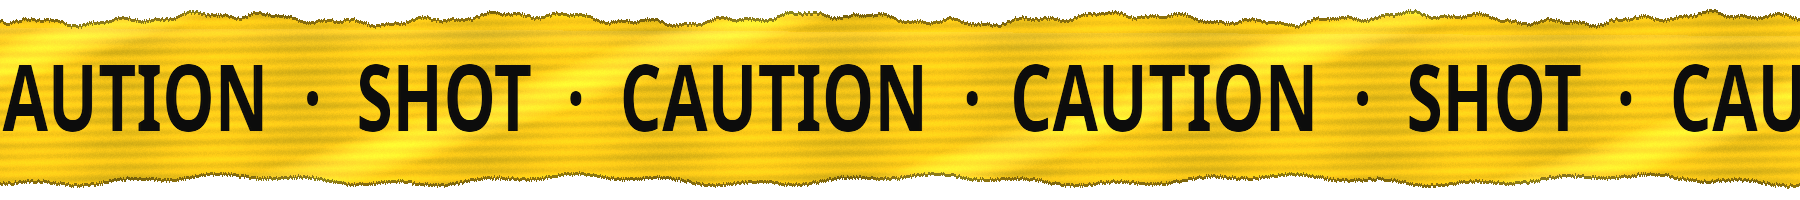
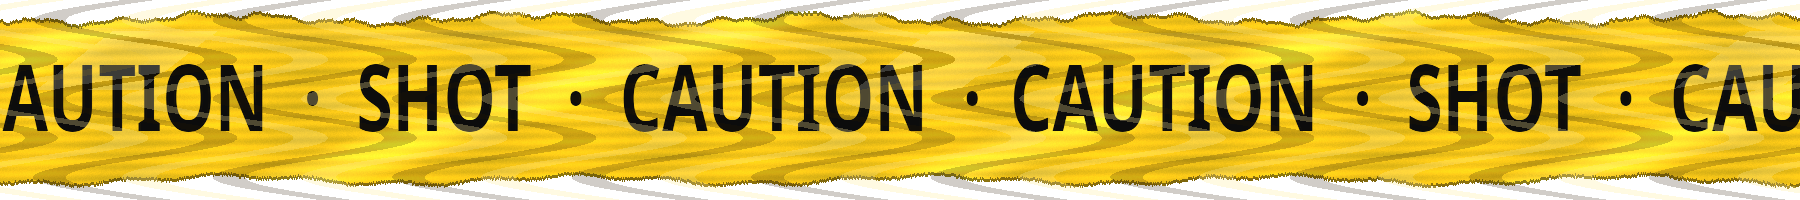
Cross the shot card with a tape X and knock it askew.
Two full-width caution strips hang off the card, the holes grow to a glass spiderweb, and the total turns #FF6B6B under a red vignette. The punch, the slap, and the haptics stay.

diff --git a/apps/web/src/styles.css b/apps/web/src/styles.css
@@ -706,22 +706,30 @@ select { background: #170d27; color: var(--ink); border: 1px solid rgba(185,128,
 .tt-recap { display: flex; flex-direction: column; justify-content: center; gap: 16px; width: min(520px, 100%); }
 .tt-team { position: relative; padding: 18px 16px 16px; background: rgba(255,255,255,.05); box-shadow: inset 0 0 0 1px rgba(185,128,255,.2); clip-path: polygon(10px 0, 100% 0, calc(100% - 10px) 100%, 0 100%); }
 .tt-face { display: grid; grid-template-columns: minmax(0, 1fr) auto; grid-template-areas: "name total" "line total" "players total" "bar bar"; align-items: center; gap: 8px 16px; position: relative; z-index: 5; }
-/* On-notice shot card: dim the face, red border, three raster holes, then the corner tape. Full fidelity at every width, including 360–390. */
+/* On-notice shot card: knocked 4px and -1.5deg, red vignette and glow, three raster holes, then a shallow tape X. Full fidelity at every width, including 360–390. */
 .tt-team > :not(.shot-holes):not(.caution-x):not(.shroud) { position: relative; z-index: 5; }
-.tt-team.taped { clip-path: none; overflow: hidden; }
-.tt-team.notice, .tt-team.mine.notice { clip-path: none; overflow: hidden; border: 1px solid #FF4D4D; box-shadow: none; }
-.tt-team.notice .tt-face { filter: brightness(.85); }
+.tt-team.taped { clip-path: none; overflow: visible; }
+.tt-team.notice, .tt-team.mine.notice {
+  clip-path: none; overflow: visible; border: 1px solid #FF4D4D; margin-right: 6px;
+  transform: translateX(4px) rotate(-1.5deg);
+  box-shadow: 0 0 24px rgba(255,60,60,.25), inset 0 0 48px rgba(255,60,60,.12);
+}
+.tt-team.notice .tt-team-name,
+.tt-team.notice .tt-line,
+.tt-team.notice .tt-players { filter: brightness(.85); text-shadow: 0 2px 0 #140810; }
 .tt-team.notice.tape-in { animation: hole-jolt 90ms linear 0ms, hole-jolt 90ms linear 90ms, hole-jolt 90ms linear 180ms; }
-@keyframes hole-jolt { 0%, 100% { transform: translate3d(0, 0, 0); } 45% { transform: translate3d(3px, 0, 0); } }
+@keyframes hole-jolt { 0%, 100% { transform: translateX(4px) rotate(-1.5deg); } 45% { transform: translateX(7px) rotate(-1.5deg); } }
 .shot-holes { position: absolute; inset: 0; z-index: 1; pointer-events: none; }
-.shot-holes img { position: absolute; width: 32px; height: 32px; transform: translate(-50%, -50%) rotate(var(--rot, 0deg)) scale(var(--s, 1)); pointer-events: none; }
+.shot-holes img { position: absolute; width: 46px; height: 46px; transform: translate(-50%, -50%) rotate(var(--rot, 0deg)) scale(var(--s, 1)); pointer-events: none; }
 .tt-team.notice.tape-in .shot-holes img { animation: hole-punch 120ms cubic-bezier(.2, .8, .2, 1) both; }
 @keyframes hole-punch { 0% { opacity: 0; transform: translate(-50%, -50%) rotate(var(--rot, 0deg)) scale(calc(var(--s, 1) * 1.4)); } 12% { opacity: 1; transform: translate(-50%, -50%) rotate(var(--rot, 0deg)) scale(calc(var(--s, 1) * 1.28)); } 100% { opacity: 1; transform: translate(-50%, -50%) rotate(var(--rot, 0deg)) scale(var(--s, 1)); } }
-/* One strip across the top-right corner, inside the card. The card clips it so a rotated end cannot paint outside. */
-.caution-x { position: absolute; z-index: 4; top: 0; right: 0; width: 30%; height: 14px; opacity: 0.95; overflow: hidden; pointer-events: none; transform: rotate(-6deg); transform-origin: 100% 0; filter: drop-shadow(0 2px 2px rgba(0,0,0,.4)); }
-.caution-x .tape { display: block; width: 100%; height: 100%; object-fit: cover; }
-.tt-team.tape-in .caution-x { animation: tape-slap 260ms cubic-bezier(.2, 1.3, .3, 1) 300ms both; }
-@keyframes tape-slap { from { opacity: 0; transform: rotate(8deg) scale(1.15); } to { opacity: 0.95; transform: rotate(-6deg) scale(1); } }
+/* Two full-width strips in a shallow X. They overhang the card by 10px and stay behind the type. The total paints above them. */
+.caution-x { position: absolute; z-index: 4; left: -14px; top: 44%; width: calc(100% + 28px); height: 28px; opacity: 0.95; overflow: visible; pointer-events: none; }
+.caution-x .tape { position: absolute; left: 0; top: 0; width: 100%; height: 28px; object-fit: cover; transform-origin: center; filter: drop-shadow(0 2px 1px rgba(0,0,0,.45)); }
+.caution-x .tape.a { --from: 20deg; --to: 8deg; transform: rotate(8deg); }
+.caution-x .tape.b { --from: -20deg; --to: -8deg; transform: rotate(-8deg); }
+.tt-team.tape-in .caution-x .tape { animation: tape-slap 260ms cubic-bezier(.2, 1.3, .3, 1) 300ms both; }
+@keyframes tape-slap { from { opacity: 0; transform: rotate(var(--from)) scale(1.15); } to { opacity: 0.95; transform: rotate(var(--to)) scale(1); } }
 /* Tape after a non-losing shot, off once they make their books. A hand-1 loss shows the tape and the sheet.
    Later eliminations are the sheet alone. RIP, the police lights, and the time-of-death caption stay at full fidelity at every width, including 360–390. */
 .shroud {
@@ -788,10 +796,8 @@ select { background: #170d27; color: var(--ink); border: 1px solid rgba(185,128,
 .tt-team.shrouded .tt-line b.neg { color: #8e2436; }
 .tt-team.shrouded .tt-line b.pos { color: #1c6a34; }
 .tt-team.shrouded .tt-players { color: #4a382c; }
-.tt-recap.crowded .caution-x { height: 16px; width: 42%; }
-.tt-recap.crowded .shot-holes img { width: 28px; height: 28px; }
 @keyframes sheet-drop { 0% { opacity: 0; transform: translate3d(0, -108%, 0); } 100% { opacity: 1; transform: none; } }
-@media (prefers-reduced-motion: reduce) { .tt-team.notice.tape-in, .tt-team.tape-in .caution-x, .tt-team.notice.tape-in .shot-holes img, .tt-team.sheet-in .shroud { animation: none; } }
+@media (prefers-reduced-motion: reduce) { .tt-team.notice.tape-in, .tt-team.tape-in .caution-x, .tt-team.tape-in .caution-x .tape, .tt-team.notice.tape-in .shot-holes img, .tt-team.sheet-in .shroud { animation: none; } }
 @media (prefers-reduced-motion: reduce) { .tod span { animation: none; opacity: 1; } }
 .tt-team.mine { background: rgba(245,197,66,.08); box-shadow: inset 3px 0 0 var(--gold), inset 0 0 0 1px rgba(245,197,66,.25); }
 .tt-team-name { grid-area: name; display: flex; flex-direction: column; gap: 4px; }
@@ -820,6 +826,10 @@ select { background: #170d27; color: var(--ink); border: 1px solid rgba(185,128,
 .tt-stat.total { grid-area: total; min-width: 64px; }
 .tt-stat.total b { font-size: 46px; color: #fff; text-shadow: 0 0 14px rgba(185,128,255,.8); }
 .tt-team.mine .tt-stat.total b { color: var(--gold); text-shadow: 0 0 14px rgba(245,197,66,.7); }
+.tt-team.notice .tt-stat.total,
+.tt-team.mine.notice .tt-stat.total { position: relative; z-index: 6; }
+.tt-team.notice .tt-stat.total b,
+.tt-team.mine.notice .tt-stat.total b { color: #FF6B6B; text-shadow: 0 2px 0 #140810; background: #2a1c28; border-radius: 6px; padding: 0 4px; }
 .tt-players { display: flex; flex-wrap: wrap; justify-content: center; gap: 0 6px; font-size: 11px; color: var(--muted); }
 .nil-tag { font-style: normal; font-weight: 800; font-size: 10px; padding: 0 3px; border-radius: 2px; background: var(--purple); color: #fff; }
 .tt-team .tt-bar { grid-area: bar; }

diff --git a/apps/web/test/scorecard-shroud.test.ts b/apps/web/test/scorecard-shroud.test.ts
@@ -70,9 +70,9 @@ describe('scorecard caution tape and shroud', () => {
     expect(html).toContain('class="tt-team blast taped tape-in notice"');
     expect(html).toContain('data-testid="recap-tape-1"');
     expect(html).toContain('src="/shot/tape.png"');
-    expect(html.match(/src="\/shot\/tape.png"/g)).toHaveLength(1);
-    expect(html).not.toContain('class="tape a"');
-    expect(html).not.toContain('class="tape b"');
+    expect(html.match(/src="\/shot\/tape.png"/g)).toHaveLength(2);
+    expect(html).toContain('class="tape a"');
+    expect(html).toContain('class="tape b"');
     expect(html).toContain('data-testid="recap-holes-1"');
     expect(html).toContain('src="/shot/hole.png"');
     expect(html.match(/src="\/shot\/hole.png"/g)).toHaveLength(3);
@@ -80,9 +80,9 @@ describe('scorecard caution tape and shroud', () => {
     expect(html).toContain('animation-delay:90ms');
     expect(html).toContain('animation-delay:180ms');
     expect(html).not.toContain('animation-delay:270ms');
-    expect(html).toContain('left:60%');
-    expect(html).toContain('left:11%');
-    expect(html).toContain('left:88%');
+    expect(html).toContain('left:40%');
+    expect(html).toContain('left:16%');
+    expect(html).toContain('left:55%');
     expect(html).toContain('data-testid="recap-shot-stamp-1"');
     expect(html).toContain('>SHOT<');
     expect(html).toContain('data-testid="recap-notice-1"');
@@ -190,9 +190,19 @@ describe('scorecard caution tape and shroud', () => {
     expect(css).toContain('opacity: 0.95');
     expect(css).toContain('brightness(.85)');
     expect(css).toContain('#FF4D4D');
-    expect(css).toContain('.tt-team.taped { clip-path: none; overflow: hidden; }');
-    expect(css).toContain('.tt-team.notice, .tt-team.mine.notice { clip-path: none; overflow: hidden;');
-    expect(css).toContain('.caution-x { position: absolute; z-index: 4; top: 0; right: 0;');
+    expect(css).toContain('.tt-team.taped { clip-path: none; overflow: visible; }');
+    expect(css).toContain('overflow: visible; border: 1px solid #FF4D4D');
+    expect(css).toContain('translateX(4px) rotate(-1.5deg)');
+    expect(css).toContain('0 0 24px rgba(255,60,60,.25)');
+    expect(css).toContain('inset 0 0 48px rgba(255,60,60,.12)');
+    expect(css).toContain('color: #FF6B6B');
+    expect(css).toContain('text-shadow: 0 2px 0 #140810');
+    expect(css).toContain('left: -14px');
+    expect(css).toContain('width: calc(100% + 28px)');
+    expect(css).toContain('height: 28px');
+    expect(css).toContain('rotate(8deg)');
+    expect(css).toContain('rotate(-8deg)');
+    expect(css).toContain('width: 46px');
     expect(css).not.toContain('top: -8px');
     expect(css).not.toContain('right: -8px');
     expect(css).toMatch(/\.tt-run-show \{[^}]*background:/);

diff --git a/apps/web/src/Intermission.tsx b/apps/web/src/Intermission.tsx
@@ -45,14 +45,15 @@ export function calloutsFor(st: GameState, mySide: number, names: string[]): Cal
 }
 
 /**
- * Three punched holes in empty card space. Raster art in /shot/hole.png
- * (original render, no third-party illustration). Rotation and scale are fixed
- * per slot so a reconnect does not reshuffle them.
+ * Three punched holes. Raster art in /shot/hole.png (original render). The
+ * sprite is 40–48px and the glass spiderweb runs out to 1.5× the punch.
+ * Rotation and scale are fixed per slot so a reconnect does not reshuffle them.
+ * The lower-left hole sits on the progress bar. None of them sit on the total.
  */
 const HOLES: readonly { x: string; y: string; rot: number; scale: number }[] = [
-  { x: '60%', y: '28%', rot: -14, scale: 0.88 }, // gap between the name and the total
-  { x: '11%', y: '93%', rot: 18, scale: 0.85 },  // lower-left, at the start of the bar
-  { x: '88%', y: '72%', rot: 6, scale: 0.85 },   // mid-right, under the total
+  { x: '40%', y: '18%', rot: -12, scale: 1 },    // beside the name, clear of the total
+  { x: '16%', y: '84%', rot: 16, scale: 0.92 },  // lower-left, across the progress bar
+  { x: '55%', y: '68%', rot: -6, scale: 0.96 },  // low center, under the bid line
 ];
 
 export function Intermission({
@@ -174,7 +175,8 @@ export function Intermission({
                   )}
                   {cover.tape && (
                     <div className="caution-x" data-testid={`recap-tape-${s.side}`} aria-hidden="true">
-                      <img className="tape" src="/shot/tape.png" alt="" />
+                      <img className="tape a" src="/shot/tape.png" alt="" />
+                      <img className="tape b" src="/shot/tape.png" alt="" />
                     </div>
                   )}
                   <div className="tt-face">
